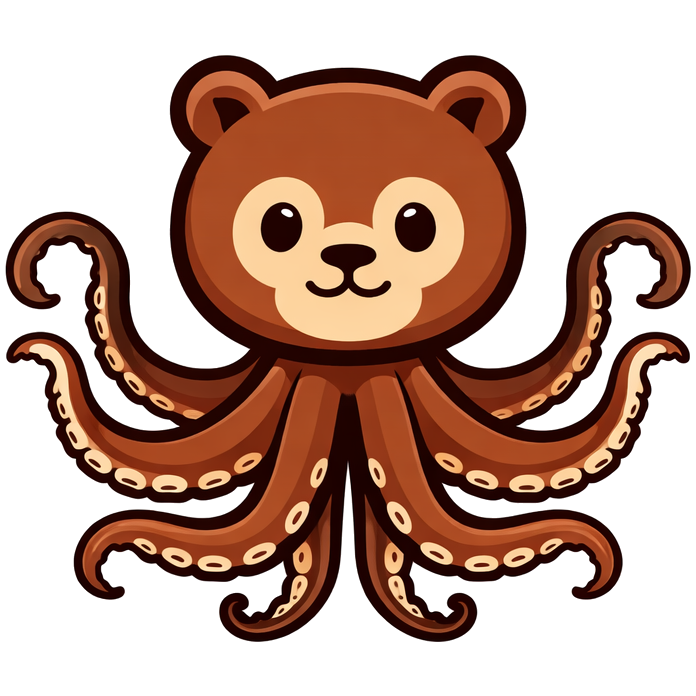
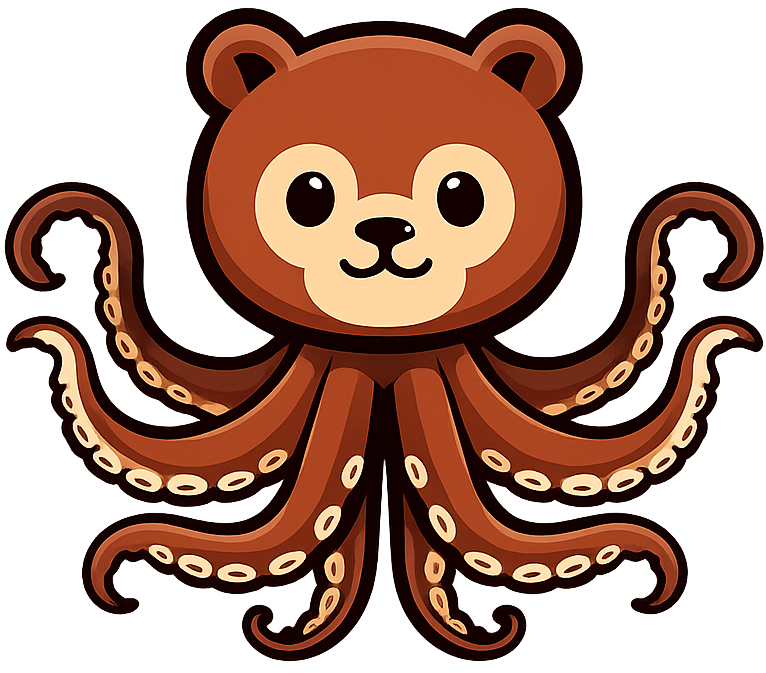
fix: route to mgmt handler when managementHost is empty
When managementHost is not set (dev mode default), treat it as a
catch-all fallback so requests to localhost/any host reach the
management mux instead of returning 404.

diff --git a/internal/server/server_test.go b/internal/server/server_test.go
@@ -41,7 +41,7 @@ func TestHostDispatch(t *testing.T) {
 		{"githubcopilot.com", "copilot"},
 		{"ghp.example.com", "mgmt"},
 		{"ghp.example.com:443", "mgmt"},
-		{"unknown.example.com", ""},
+		{"unknown.example.com", ""}, // 404 when managementHost is set
 	}
 
 	for _, tt := range tests {
@@ -57,6 +57,62 @@ func TestHostDispatch(t *testing.T) {
 					t.Errorf("expected 404, got %d", rr.Code)
 				}
 			} else if body != tt.expected {
+				t.Errorf("host %s: expected %q, got %q", tt.host, tt.expected, body)
+			}
+		})
+	}
+
+	for _, tt := range tests {
+		t.Run(tt.host, func(t *testing.T) {
+			req := httptest.NewRequest("GET", "/", nil)
+			req.Host = tt.host
+			rr := httptest.NewRecorder()
+			dispatch.ServeHTTP(rr, req)
+
+			body := rr.Body.String()
+			if tt.expected == "" {
+				if rr.Code != http.StatusNotFound {
+					t.Errorf("expected 404, got %d", rr.Code)
+				}
+			} else if body != tt.expected {
+				t.Errorf("host %s: expected %q, got %q", tt.host, tt.expected, body)
+			}
+		})
+	}
+}
+
+func TestHostDispatch_EmptyManagementHost(t *testing.T) {
+	mgmtHandler := http.HandlerFunc(func(w http.ResponseWriter, r *http.Request) {
+		w.Write([]byte("mgmt"))
+	})
+
+	dispatch := newHostDispatch(hostDispatchConfig{
+		apiHandler:     http.NotFoundHandler(),
+		githubHandler:  http.NotFoundHandler(),
+		copilotHandler: http.NotFoundHandler(),
+		mgmtHandler:    mgmtHandler,
+		managementHost: "", // empty = catch-all fallback
+	})
+
+	tests := []struct {
+		host     string
+		expected string
+	}{
+		{"localhost", "mgmt"},
+		{"localhost:8080", "mgmt"},
+		{"anything.example.com", "mgmt"},
+		{"192.168.1.1", "mgmt"},
+	}
+
+	for _, tt := range tests {
+		t.Run(tt.host, func(t *testing.T) {
+			req := httptest.NewRequest("GET", "/", nil)
+			req.Host = tt.host
+			rr := httptest.NewRecorder()
+			dispatch.ServeHTTP(rr, req)
+
+			body := rr.Body.String()
+			if body != tt.expected {
 				t.Errorf("host %s: expected %q, got %q", tt.host, tt.expected, body)
 			}
 		})

diff --git a/internal/server/server.go b/internal/server/server.go
@@ -249,7 +249,7 @@ func newHostDispatch(cfg hostDispatchConfig) http.Handler {
 			cfg.githubHandler.ServeHTTP(w, r)
 		case host == "githubcopilot.com" || strings.HasSuffix(host, ".githubcopilot.com"):
 			cfg.copilotHandler.ServeHTTP(w, r)
-		case strings.EqualFold(host, cfg.managementHost):
+		case cfg.managementHost == "" || strings.EqualFold(host, cfg.managementHost):
 			cfg.mgmtHandler.ServeHTTP(w, r)
 		default:
 			http.NotFound(w, r)
